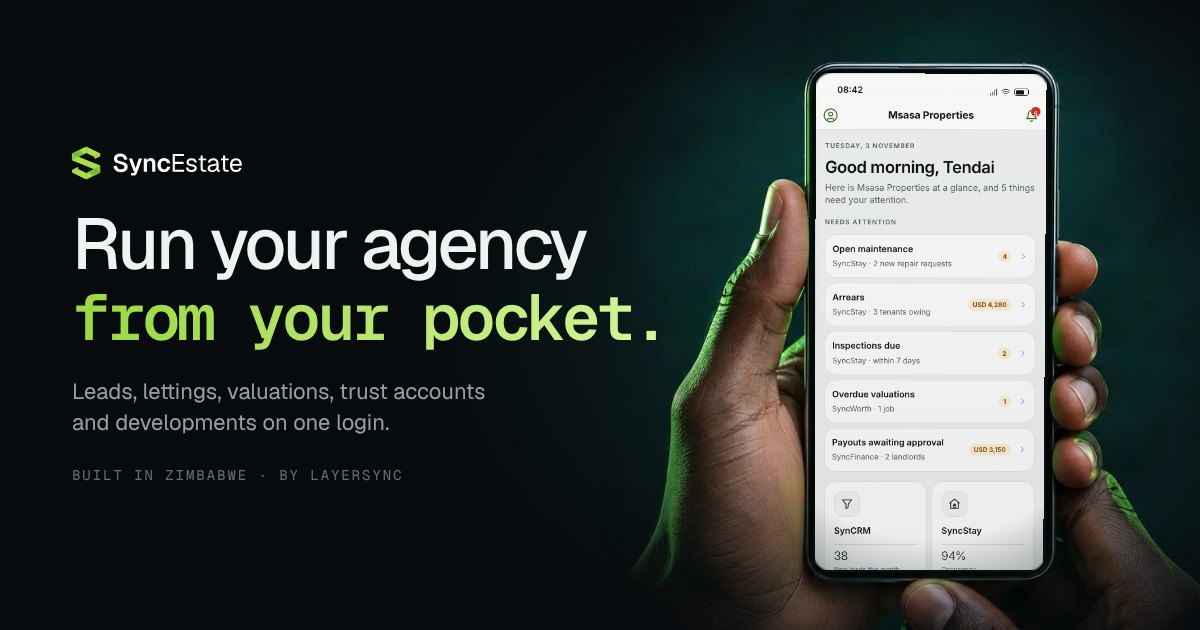
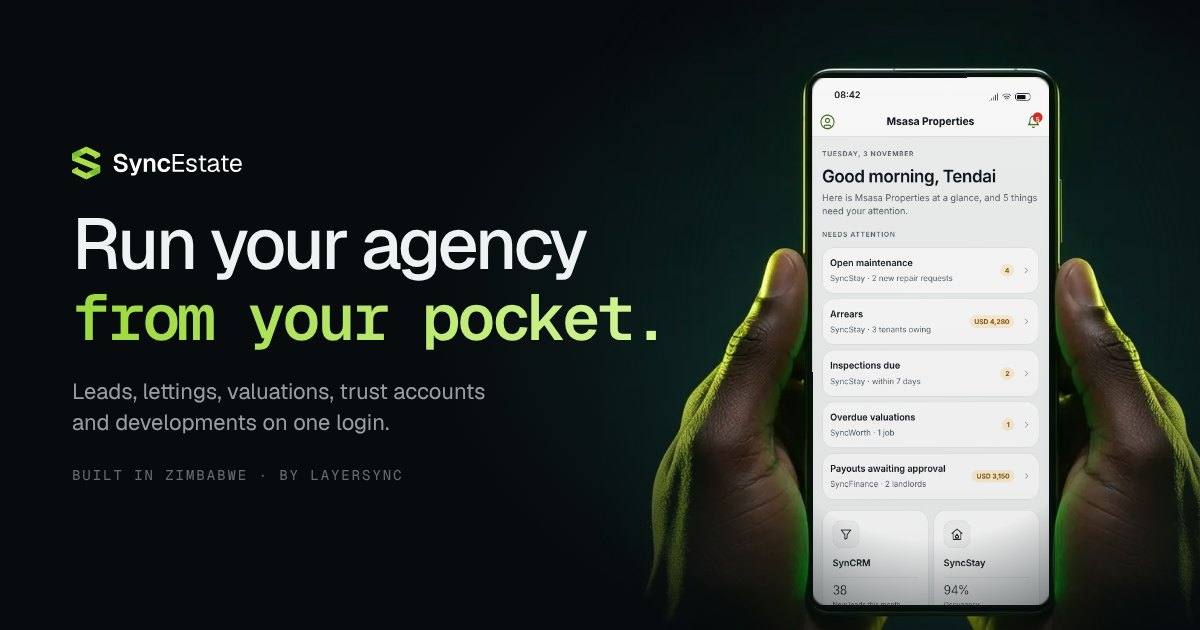
Reshoot the landing photography with Seedream and art-directed prompts
All seven photos regenerated with Seedream 5.0 Pro from detailed prompts
(scene, subjects, wardrobe, expressions, camera, lighting, grade), kept
in docs/landing/PROMPTS.md. The stage phones use the hero as a reference
so the set matches. screen-quad.py now fits tilted phones correctly by
working along the screen's own axis. Photos get versioned file names so
no cache serves the old ones.

Claude-Session: https://claude.ai/code/session_016wBgyzJAft5sTYCiKgkzWf

Changed region(s): [[0.5242, 0.0905, 1.0, 1.0]]

diff --git a/src/components/landing/content.ts b/src/components/landing/content.ts
@@ -233,29 +233,29 @@ export const who = {
       title: "Sales agencies",
       body: "From first enquiry to signed viewing form to paid commission.",
       chips: ["SynCRM", "SyncMedia"],
-      image: "/landing/who-sales.jpg",
-      alt: "An estate agent showing a client couple the SyncEstate app at a viewing in a modern Harare home",
+      image: "/landing/who-sales-v2.jpg",
+      alt: "An estate agent holds out her phone while a smiling young couple sign on it in a sunlit Borrowdale living room",
     },
     {
       title: "Property managers",
       body: "Repairs logged and tracked, inspections done on the phone, rent and arrears under control.",
       chips: ["SyncStay", "SyncFinance"],
-      image: "/landing/who-property-managers.jpg",
-      alt: "A property manager doing an inspection on her phone in the doorway of an apartment bedroom",
+      image: "/landing/who-property-managers-v2.jpg",
+      alt: "A property manager crouches to photograph a leaking pipe under a kitchen sink while the tenant looks on, reassured",
     },
     {
       title: "Valuation firms",
       body: "Every job on time, every report signed and locked.",
       chips: ["SyncWorth"],
-      image: "/landing/who-valuers.jpg",
-      alt: "A valuer photographing a house under a jacaranda tree with his phone at golden hour",
+      image: "/landing/who-valuers-v2.jpg",
+      alt: "A valuer photographs a house with her phone under a jacaranda in bloom in Mount Pleasant at golden hour",
     },
     {
       title: "Developers",
       body: "Every stand, reservation and instalment, in real time.",
       chips: ["SyncDev", "SyncFinance"],
-      image: "/landing/who-developers.jpg",
-      alt: "A developer in a hard hat checking his phone on a serviced stands site at dusk",
+      image: "/landing/who-developers-v2.jpg",
+      alt: "A developer in a hard hat smiles at his phone on a serviced stands site at dusk while his foreman points across the plots",
     },
   ],
 };

diff --git a/src/components/landing/phone/quads.ts b/src/components/landing/phone/quads.ts
@@ -15,25 +15,25 @@ export type PhonePhoto = {
 
 export const PHOTOS = {
   hero: {
-    src: "/landing/hero.jpg",
-    mask: "/landing/hero-mask.png",
+    src: "/landing/hero-v2.jpg",
+    mask: "/landing/hero-mask-v2.png",
     width: 2400,
-    height: 1357,
-    quad: { tl: [0.42403, 0.14583], tr: [0.57835, 0.14654], br: [0.57601, 0.73355], bl: [0.4231, 0.73355] },
+    height: 1355,
+    quad: { tl: [0.42162, 0.1512], tr: [0.57961, 0.15102], br: [0.58013, 0.77602], bl: [0.42185, 0.7762] },
   },
   stage: {
-    src: "/landing/stage.jpg",
-    mask: "/landing/stage-mask.png",
+    src: "/landing/stage-v2.jpg",
+    mask: "/landing/stage-mask-v2.png",
     width: 1600,
-    height: 2000,
-    quad: { tl: [0.36182, 0.15362], tr: [0.6325, 0.15844], br: [0.61122, 0.66815], bl: [0.33541, 0.65831] },
+    height: 2138,
+    quad: { tl: [0.27176, 0.16572], tr: [0.56126, 0.14276], br: [0.67576, 0.65317], bl: [0.38489, 0.68859] },
   },
   stageAlt: {
-    src: "/landing/stage-alt.jpg",
-    mask: "/landing/stage-alt-mask.png",
+    src: "/landing/stage-alt-v2.jpg",
+    mask: "/landing/stage-alt-mask-v2.png",
     width: 1600,
-    height: 2000,
-    quad: { tl: [0.38056, 0.15769], tr: [0.66546, 0.1486], br: [0.6609, 0.7], bl: [0.37829, 0.7] },
+    height: 2138,
+    quad: { tl: [0.37776, 0.1424], tr: [0.68066, 0.13234], br: [0.62565, 0.74378], bl: [0.31263, 0.7213] },
   },
 } satisfies Record<string, PhonePhoto>;
 

diff --git a/src/components/landing/module-showcase.tsx b/src/components/landing/module-showcase.tsx
@@ -217,7 +217,7 @@ export function ModuleShowcase() {
                   <PhoneStage
                     photo="stage"
                     screens={CHAPTER_SCREENS[ch.key]}
-                    crop={{ x: [0.12, 0.88], y: [0.08, 0.76] }}
+                    crop={{ x: [0.1, 0.85], y: [0.07, 0.76] }}
                     sizes="(max-width: 1023px) 130vw, 1px"
                     showDots
                     label={`${ch.name} on a phone: ${ch.eyebrow.toLowerCase()}.`}
@@ -230,12 +230,12 @@ export function ModuleShowcase() {
           {/* Desktop: one sticky phone. */}
           <div className="hidden lg:block">
             <div className="sticky top-[calc(50vh-min(41vh,400px))]">
-              <div className="l-stage l-stage-panel relative mx-auto max-h-[82vh] overflow-hidden rounded-[32px]" style={{ aspectRatio: "0.84", maxWidth: "100%" }}>
+              <div className="l-stage l-stage-panel relative mx-auto overflow-hidden rounded-[32px]" style={{ width: "min(100%, calc(82vh * 0.77))" }}>
                 <PhoneStage
                   photo="stage"
                   screens={ALL_SCREENS}
                   active={stageIndex}
-                  crop={{ x: [0.15, 0.85], y: [0.08, 0.75] }}
+                  crop={{ x: [0.12, 0.83], y: [0.07, 0.76] }}
                   sizes="(min-width: 1024px) 640px, 1px"
                   label={label}
                 />

diff --git a/src/components/landing/hub-bento-client.tsx b/src/components/landing/hub-bento-client.tsx
@@ -14,7 +14,7 @@ export function HubBentoPhone() {
       <PhoneStage
         photo="stageAlt"
         screens={["hub"]}
-        crop={{ x: [0.12, 0.92], y: [0.1, 0.62] }}
+        crop={{ x: [0.1, 0.9], y: [0.08, 0.6] }}
         sizes="(min-width: 1024px) 700px, 100vw"
         label="The Hub's Needs attention list: open maintenance, arrears, inspections due, an overdue valuation and payouts awaiting approval."
       />

diff --git a/src/components/landing/sections-client.tsx b/src/components/landing/sections-client.tsx
@@ -51,7 +51,7 @@ export function AppPhone() {
       <PhoneStage
         photo="stageAlt"
         screens={["signin"]}
-        crop={{ x: [0.12, 0.9], y: [0.1, 0.8] }}
+        crop={{ x: [0.1, 0.9], y: [0.08, 0.82] }}
         sizes="(min-width: 1024px) 560px, 100vw"
         label="The SyncEstate sign-in screen on a phone: one sign-in for every product your agency uses."
       />

diff --git a/scripts/landing/screen-quad.py b/scripts/landing/screen-quad.py
@@ -6,9 +6,9 @@ this script:
 
 1. finds the screen: strict green threshold, then a flood fill from the
    middle of the green area so green light spilled on the hands is left out;
-2. fits a straight line to each of the screen's four edges and intersects
-   them, which gives the true corners even though the screen corners are
-   rounded;
+2. finds the screen's long axis, then fits a straight line to each of the
+   four edges in that rotated frame and intersects them, which gives the
+   true corners even when the phone is tilted and its corners are rounded;
 3. writes a mask PNG (white, alpha = screen, slightly grown and feathered)
    that the page uses to clip the live screen, so rounded corners and
    anything in front of the glass stay on top;
@@ -61,33 +61,60 @@ def fit_edge(points: np.ndarray, vertical: bool) -> tuple[float, float]:
 
 
 def corners(screen: np.ndarray) -> dict:
+    """Fit the four screen edges and intersect them.
+
+    The phone may be tilted, so first find the screen's long axis (PCA of the
+    mask pixels) and work in coordinates rotated to line up with it. Each edge
+    is then sampled over the middle 60% of its length, away from the rounded
+    corners, fitted with a straight line, and the lines are intersected.
+    """
     ys, xs = np.nonzero(screen)
-    x0, x1, y0, y1 = xs.min(), xs.max(), ys.min(), ys.max()
-    w, h = x1 - x0, y1 - y0
+    cx, cy = xs.mean(), ys.mean()
+    cov = np.cov(np.stack([xs - cx, ys - cy]))
+    evals, evecs = np.linalg.eigh(cov)
+    long_axis = evecs[:, np.argmax(evals)]
+    # Angle that turns the long axis vertical.
+    theta = np.arctan2(long_axis[0], long_axis[1])
+    c, s_ = np.cos(theta), np.sin(theta)
+    # Rotate the pixel coordinates (u across, v down the phone).
+    u = (xs - cx) * c - (ys - cy) * s_
+    v = (xs - cx) * s_ + (ys - cy) * c
+    ui = np.round(u).astype(int)
+    vi = np.round(v).astype(int)
+    u0, u1, v0, v1 = ui.min(), ui.max(), vi.min(), vi.max()
+    w, h = u1 - u0, v1 - v0
+
     top, bottom, left, right = [], [], [], []
-    # Sample the middle 60% of each edge, away from the rounded corners.
-    for x in range(int(x0 + 0.2 * w), int(x1 - 0.2 * w)):
-        col = np.nonzero(screen[:, x])[0]
-        if len(col):
-            top.append((x, col.min()))
-            bottom.append((x, col.max()))
-    for y in range(int(y0 + 0.2 * h), int(y1 - 0.2 * h)):
-        row = np.nonzero(screen[y, :])[0]
-        if len(row):
-            left.append((row.min(), y))
-            right.append((row.max(), y))
-    t = fit_edge(np.array(top), False)
-    btm = fit_edge(np.array(bottom), False)
-    lft = fit_edge(np.array(left), True)
-    rgt = fit_edge(np.array(right), True)
+    by_u: dict[int, list[int]] = {}
+    by_v: dict[int, list[int]] = {}
+    for a, b in zip(ui, vi):
+        by_u.setdefault(a, []).append(b)
+        by_v.setdefault(b, []).append(a)
+    for a in range(int(u0 + 0.2 * w), int(u1 - 0.2 * w)):
+        col = by_u.get(a)
+        if col:
+            top.append((a, min(col)))
+            bottom.append((a, max(col)))
+    for b in range(int(v0 + 0.2 * h), int(v1 - 0.2 * h)):
+        row = by_v.get(b)
+        if row:
+            left.append((min(row), b))
+            right.append((max(row), b))
+    t = fit_edge(np.array(top, dtype=float), False)
+    btm = fit_edge(np.array(bottom, dtype=float), False)
+    lft = fit_edge(np.array(left, dtype=float), True)
+    rgt = fit_edge(np.array(right, dtype=float), True)
 
     def meet(hline, vline):
-        # y = ha*x + hb ; x = va*y + vb
+        # v = ha*u + hb ; u = va*v + vb
         ha, hb = hline
         va, vb = vline
-        y = (ha * vb + hb) / (1 - ha * va)
-        x = va * y + vb
-        return x, y
+        vv = (ha * vb + hb) / (1 - ha * va)
+        uu = va * vv + vb
+        # Back to image coordinates.
+        x = cx + uu * c + vv * s_
+        y = cy - uu * s_ + vv * c
+        return float(x), float(y)
 
     return {"tl": meet(t, lft), "tr": meet(t, rgt), "br": meet(btm, rgt), "bl": meet(btm, lft)}
 

diff --git a/docs/landing/PROMPTS.md b/docs/landing/PROMPTS.md
@@ -1,0 +1,124 @@
+# SyncEstate photography prompts
+
+The image prompts behind the landing page photography (`public/landing/`).
+Generated with **Seedream 5.0 Pro** on Higgsfield (`seedream_v5_pro`, 2k).
+
+Reuse the structure for every new shot so the set stays one shoot.
+
+## How we write a prompt
+
+Every prompt has these parts, in this order. Leave none out.
+
+1. **Intent:** one line saying what the photo is for and the moment it captures.
+2. **Scene:** the place (a real Harare suburb), the time of day and season, and three or four concrete props or materials.
+3. **Subjects:**
+   - who they are: age, build, hair and the exact clothing, with colours;
+   - what each one is doing with their hands;
+   - each person's **facial expression**, in plain words ("calm, brow slightly furrowed", "a small, grateful smile");
+   - where they stand in the frame.
+4. **Camera:** focal length, aperture, camera height and angle, framing and what falls out of focus.
+5. **Lighting:**
+   - the key light's direction and colour temperature in kelvin;
+   - fill and rim lights, including the lime-green brand rim (`#9BD83D`) where it fits the scene.
+6. **Grade:** highlights, shadows (always deep teal-green), skin, and any brand accent.
+7. **Finish:** "photorealistic, fine detail, subtle film grain, no text, no logos".
+
+### Hard rules
+
+- **People:** Black Zimbabwean professionals, mixing men and women, ages and roles across the set.
+- **Settings:** recognisably Harare. Name the suburb, and use jacarandas, msasa trees, boundary walls and red earth where they fit.
+- **Phones:**
+  - Lifestyle shots: the screen faces **away** from the camera, so no fake interface shows.
+  - Phone shots used for screen fitting: the screen is a flat, uniform **chroma-key green (#00FF00)** with no interface, text, glare or reflections. Nothing covers it: no finger or thumb on the glass.
+  - No brand logos anywhere.
+- **Length:** keep each part tight. A prompt runs about 150 to 230 words; past that, models start dropping details.
+
+---
+
+## H1: Hero, two hands (16:9) → `hero.jpg`
+
+The first attempt (and a Seedream 4.5 attempt) came back off-centre, with odd phone proportions, and 4.5 drew the "rim lights" as glowing tubes in the background. The fixes that worked:
+- give the phone exact proportions (19.5:9, softly rounded corners);
+- ask for a symmetrical composition centred left to right;
+- say the rim light comes from **out-of-frame sources**, with no fixtures visible;
+- describe the grip by its purpose ("the way you hold up a phone to show someone your screen").
+
+```
+Photorealistic commercial product photograph for a premium software launch, shot in a dark studio.
+SUBJECT: a Black Zimbabwean businessman's two hands rise from the bottom of the frame and hold a modern smartphone upright in portrait orientation, perfectly centred left to right, the way you hold up a phone to show someone your screen. The left hand wraps the left side and bottom-left corner, thumb lying flat along the left edge of the frame; the right hand wraps the right side and bottom-right corner, fingertips curled lightly behind the phone. Both thumbs stay on the metal frame; nothing touches or covers the screen. Crisp white shirt cuffs under charcoal wool suit sleeves at both wrists.
+PHONE: modern frameless smartphone with 19.5:9 proportions, softly rounded corners, thin dark titanium frame, no notch, no logos. The screen faces the lens straight on, flat and parallel to the sensor. The whole display is one flat, evenly lit, matte, pure chroma-key green (#00FF00), edge to edge: no interface, no text, no reflection, no glare.
+CAMERA: full-frame, 85mm lens, f/5.6, lens centred on the screen at the same height; the phone fills the central 55% of the frame height; symmetrical composition with equal dark space left and right.
+LIGHTING: low-key. Lime-green (#9BD83D) rim light from out-of-frame sources behind the subject on both sides traces the knuckles, fingers and phone edges; no light fixtures or light tubes visible anywhere. Soft, dim neutral front fill so skin texture and knuckle creases read.
+BACKGROUND: plain seamless near-black (#070B0D) with a faint deep-teal haze (#0F2A28) behind the phone; nothing else in frame.
+FINISH: natural deep brown skin tones, high micro-contrast, tack sharp, subtle film grain.
+```
+
+## H2 and H3: Stage phones (3:4) → `stage.jpg`, `stage-alt.jpg`
+
+Generated with the approved hero (H1) passed as an **image reference**, so the studio, the light, the skin tone, the sleeve and the phone match. Only the hand and the angle change.
+
+H2 (right hand, used in the module showcase):
+
+```
+Photorealistic commercial product photograph, the same shoot as the reference image: match its dark studio, near-black background with deep-teal haze, lime-green rim light, natural deep brown skin tone, charcoal suit sleeve with white shirt cuff, and the same phone design exactly.
+SUBJECT: this time a single right hand of the same Black Zimbabwean businessman rises from the bottom-right corner and holds the phone upright, leaning about 8 degrees to the right, screen facing the camera. Fingers wrap the right edge and the bottom; the thumb rests on the right edge of the metal frame. Nothing touches or covers the screen.
+PHONE: 19.5:9 proportions, softly rounded corners, thin dark titanium frame, no notch, no logos. The whole display is one flat, evenly lit, matte, pure chroma-key green (#00FF00), edge to edge: no interface, no text, no reflection, no glare.
+CAMERA: full-frame, 85mm lens, f/5.6, lens level with the screen; the phone is large and centred, filling about 65% of the frame height, its top edge about 12% below the top of the frame.
+LIGHTING: low-key; lime-green (#9BD83D) rim light from out-of-frame sources behind, tracing the knuckles and phone edges; dim neutral front fill; no light fixtures visible.
+BACKGROUND: plain seamless near-black (#070B0D) with a faint deep-teal haze behind the phone.
+FINISH: tack sharp, high micro-contrast, subtle film grain.
+```
+
+H3 (left hand, used in the Hub bento and the app band) uses the same prompt, with SUBJECT replaced by:
+
+```
+SUBJECT: this time a single left hand of the same Black Zimbabwean businessman rises from the bottom-left of the frame and cradles the phone upright in a relaxed grip, turned in a gentle three-quarter view of about 15 degrees so its right edge sits slightly further from the camera. Fingers wrap the left edge and the bottom; the thumb rests on the left edge of the metal frame. Nothing touches or covers the screen.
+```
+
+## L1: Sales agencies (3:4) → `who-sales.jpg`
+
+```
+Photorealistic editorial lifestyle photograph: the moment a viewing turns into a deal.
+SCENE: the sunlit open-plan living room of a modern home in Borrowdale, Harare, late afternoon. Floor-to-ceiling glass doors open onto a lawn, a swimming pool and msasa trees. Warm oak floor, cream linen sofa, a woven Binga basket on a low walnut table.
+SUBJECTS: a Black Zimbabwean female estate agent, early 30s, natural hair in a neat low bun, tailored sage-green blazer over a white silk top, holds a smartphone out flat toward a young Black Zimbabwean couple. The wife, in a mustard knit top, signs on the phone screen with her index finger, smiling with relief. The husband, in a navy linen shirt, leans in with a hand on her shoulder, grinning. The agent watches them with a warm, confident, closed-mouth smile. Relaxed, unposed body language. The phone screen faces away from the camera.
+CAMERA: 35mm lens, f/2, chest height, three-quarter angle; the three people fill the right two-thirds of the frame; the garden falls into soft bokeh.
+LIGHTING: warm golden-hour sun (about 3200K) raking through the glass from frame left, soft bounce fill from the right, gentle highlights on cheekbones.
+GRADE: warm highlights, deep teal-green shadows, natural skin tones, one lime-green accent from a cushion.
+FINISH: photorealistic, fine skin texture, subtle film grain, no text, no logos.
+```
+
+## L2: Property managers (3:4) → `who-property-managers.jpg`
+
+```
+Photorealistic editorial lifestyle photograph: a repair request handled on the spot.
+SCENE: the kitchen of a tidy, modern rental apartment in Avondale, Harare, mid-morning. White shaker cabinets, a grey quartz counter, a stainless sink, a window with a view of jacaranda branches.
+SUBJECTS: a Black Zimbabwean male property manager, early 40s, short cropped hair and a neatly trimmed beard, navy quarter-zip over a light-blue collared shirt, crouches beside the open cupboard under the sink and photographs a dripping pipe with his smartphone held in both hands. His expression is attentive and calm, brow slightly furrowed in concentration. Standing beside him, a Black Zimbabwean female tenant in her late 20s, in a soft grey cardigan, arms loosely folded, explains the leak; she looks reassured, with a small, grateful smile. The phone screen faces away from the camera.
+CAMERA: 35mm lens, f/2.2, low angle at about waist height, three-quarter view; both people in the right half of the frame; the window softly out of focus.
+LIGHTING: bright, soft daylight (5600K) from the window behind, warm bounce from the cabinets, a faint lime-green rim on his shoulder.
+GRADE: clean neutrals, deep teal-green shadows, natural skin tones.
+FINISH: photorealistic, fine detail, subtle film grain, no text, no logos.
+```
+
+## L3: Valuation firms (3:4) → `who-valuers.jpg`
+
+```
+Photorealistic editorial lifestyle photograph: a valuer at work in a leafy Harare suburb.
+SCENE: a quiet, tree-lined avenue in Mount Pleasant, Harare, at golden hour in October. A modern single-storey house sits behind a cream boundary wall with a dark steel gate; a large jacaranda tree in full purple bloom overhangs the street; fallen purple blossoms dot the tarmac.
+SUBJECT: a Black Zimbabwean female property valuer, mid 40s, short natural hair, gold stud earrings, tailored camel trench coat over a black turtleneck, holds her smartphone up at eye level to photograph the house's facade. Her expression is focused and quietly confident, lips slightly pressed, eyes on the screen. She stands on the pavement in the left third of the frame, body turned three-quarters towards the house. The phone screen faces away from the camera.
+CAMERA: 50mm lens, f/2.8, eye level from slightly behind her right shoulder; the house sharp enough to read, the far street in soft bokeh.
+LIGHTING: low warm sun (about 3000K) from behind the house, glowing through the jacaranda petals and rimming her hair and shoulders; soft shade on her face.
+GRADE: warm amber highlights, deep teal shadows, saturated but natural purple blossoms.
+FINISH: photorealistic, fine detail, subtle film grain, no text, no logos.
+```
+
+## L4: Developers (3:4) → `who-developers.jpg`
+
+```
+Photorealistic editorial lifestyle photograph: a developer checking stand sales on site.
+SCENE: a newly serviced residential stands development on the eastern edge of Harare at dusk. Freshly graded red-earth roads, survey pegs with orange tape marking the plots, a stack of bricks, two half-built brick houses and a water tower in the distance; Harare's low skyline on the horizon under a wide amber and violet sky.
+SUBJECTS: a Black Zimbabwean male property developer, about 50, close-cropped grey-flecked hair, white hard hat, sleeves rolled on a crisp white shirt, stands on a plot holding his smartphone at chest height and smiles with quiet pride at what he sees on it. Beside him, a younger Black Zimbabwean site foreman in a hi-vis vest and work boots points out across the stands, mid-sentence, animated. The phone screen faces away from the camera.
+CAMERA: 35mm lens, f/2.8, low angle at hip height, the two men in the left half of the frame, the stands and skyline stretching away to the right.
+LIGHTING: the last warm light of sunset (about 2800K) from frame right rims both men; cool blue ambient fill from the sky.
+GRADE: warm amber sky, deep teal shadows, rich red earth, natural skin tones.
+FINISH: photorealistic, fine detail, subtle film grain, no text, no logos.
+```

diff --git a/docs/landing/MASTER_SPEC.md b/docs/landing/MASTER_SPEC.md
@@ -387,10 +387,7 @@ This is the centrepiece.
 - Grade: deep teal shadows, neutral skin.
 - The approved hero is passed as a reference image to every later generation, for consistency.
 
-**Model:** GPT Image 2.5, quality "high", 2k (≈ 2.75 credits per image). It won the test against
-Cinema Studio 2.5 and Soul Cinema:
-- it kept the brief (two hands, nothing on the screen, straight-on);
-- its green screen was the cleanest.
+**Model:** Seedream 5.0 Pro on Higgsfield (`seedream_v5_pro`, 2k), about 2.5 credits per image. It replaced GPT Image 2.5 at Tadiwa's request. Every prompt follows the house structure in [`PROMPTS.md`](./PROMPTS.md): intent, scene, subjects with wardrobe and facial expression, camera, lighting in kelvin, grade and finish. The final prompts for every shot are kept there.
 
 **Green-screen compositing:**
 - Phones in H1 and H2 have a solid chroma-green screen.
@@ -409,12 +406,13 @@ Cinema Studio 2.5 and Soul Cinema:
 
 | ID | Shot | Aspect | Used in |
 |---|---|---|---|
-| H1 | Two hands, phone upright, straight-on, green screen (**test A approved candidate**) | 16:9 (plus 4:5 crop) | Hero, mobile chapters, app band, final CTA, OG |
-| H2 | One hand from the right, phone at a slight 3/4 angle, thumb hovering near the lower edge (not touching), green screen | 4:5 | Module showcase stage |
-| L1 | Sales agent at a viewing in a modern Harare home; client signing on the agent's phone; warm interior practicals, teal grade | 3:4 | Who it's for: Sales agencies |
-| L2 | Property manager in an apartment doorway, phone in hand, mid-inspection | 3:4 | Property managers |
-| L3 | Valuer outside a suburban house with a security wall and jacaranda, photographing it on a phone, golden hour then teal grade | 3:4 | Valuation firms |
-| L4 | Developer on a serviced-stands site with survey pegs and graded roads, phone in hand, dusk | 3:4 | Developers |
+| H1 | Two hands, phone upright, straight-on, symmetrical, green screen | 16:9 (plus 4:5 crop) | Hero, mobile chapters, app band, final CTA, OG |
+| H2 | One right hand from the bottom right, phone tilted about 10°, thumb on the frame, green screen | 3:4 | Module showcase stage |
+| H3 | One left hand cradling the phone in a gentle three-quarter turn, green screen | 3:4 | Hub bento, app band |
+| L1 | Borrowdale living room, golden hour: a female agent holds out her phone while a young couple sign on it, relieved and grinning | 3:4 | Who it's for: Sales agencies |
+| L2 | Avondale rental kitchen, morning: a male property manager photographs a leaking pipe under the sink; the tenant looks on, reassured | 3:4 | Property managers |
+| L3 | Mount Pleasant avenue under a jacaranda, golden hour: a female valuer photographs a house, focused and confident | 3:4 | Valuation firms |
+| L4 | Serviced stands site east of Harare, dusk: a developer smiles at his phone while his foreman points across the plots | 3:4 | Developers |
 
 **Budget:**
 - About 6 final images plus about 3 retries each, roughly 50 credits, within the 80 approved.
